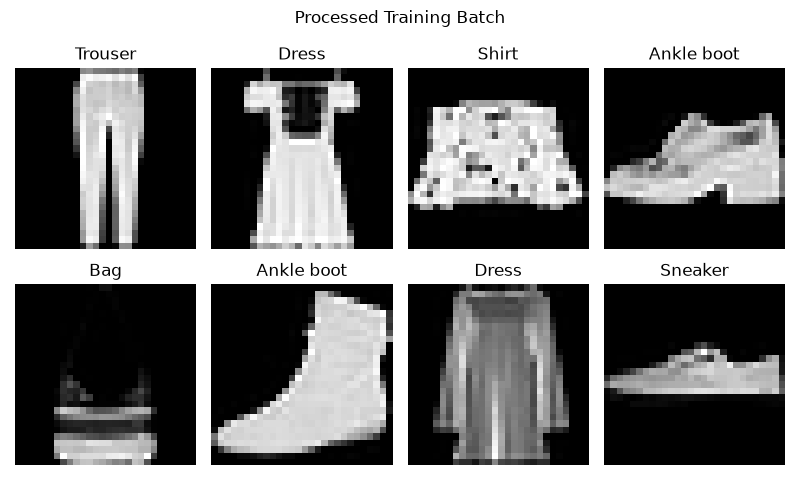
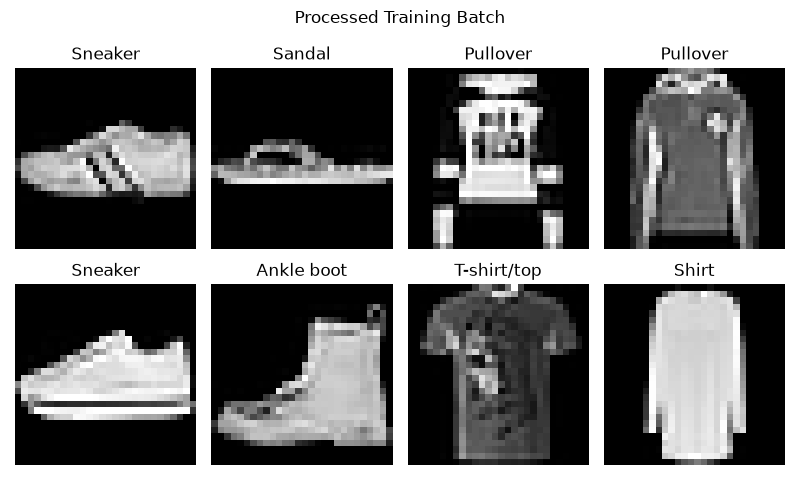
a minor fix  itts plott  of  trraining indexing in order to avoid leakage data

diff --git a/assignment1/src/eda.py b/assignment1/src/eda.py
@@ -120,8 +120,7 @@ def plot_processed_batch():
     plt.show()
     plt.close()
 
-def plt_distribution_after_spilit():
-    print(Path.cwd())
+def plt_training_distribution_after_spilit():
     dataset = FashionMNIST(root = "data", train = True, download = False)
     indexing = Path("results/split.npz")
     if indexing.exists():
@@ -153,4 +152,4 @@ if __name__ == "__main__":
 
     plot_processed_batch()
 
-    plt_distribution_after_spilit()
+    plt_training_distribution_after_spilit()
